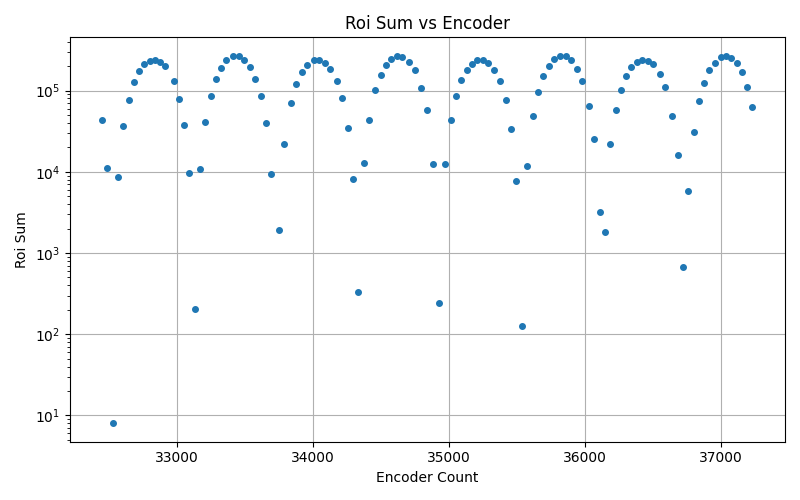
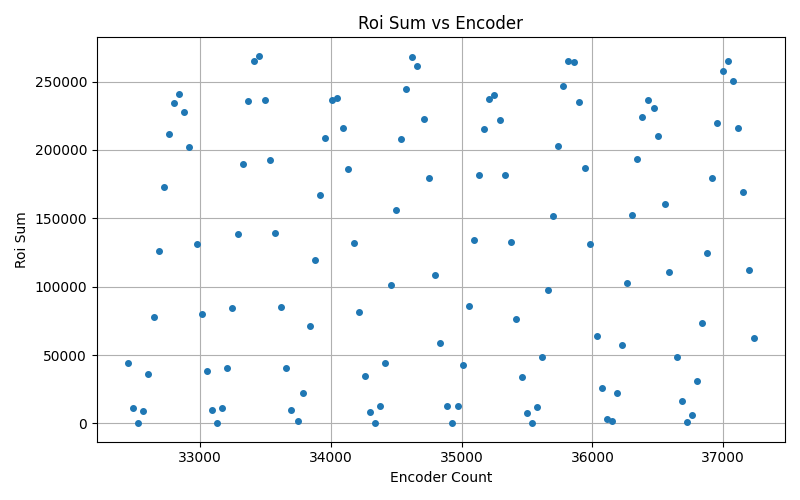
Remove log scaling from plots

diff --git a/readout/create-plot.py b/readout/create-plot.py
@@ -12,7 +12,8 @@ import matplotlib.pyplot as plt
 # === CONFIG ===
 counts_per_wheel_rev_guess = 2382
 timezone_offset_hours = 4
-plot_types = ["one_pixel", "all_pixel_sum", "all_pixel_avg", "ROI_sum", "ROI_average", "ROI_median"]
+plot_types = ["one_pixel", "all_pixel_sum", "all_pixel_avg",
+              "ROI_sum", "ROI_average", "ROI_median"]
 
 # Background ROI position/size (adjust as needed)
 background_yx = (50, 50)   # top-left corner for background
@@ -46,14 +47,12 @@ def find_closest_encoder_angle(fits_ts, encoder_ts_array, encoder_counts):
     return encoder_counts[closest_idx]
 
 
-def save_plot(x, y, xlabel, ylabel, title, log_y, outpath):
+def save_plot(x, y, xlabel, ylabel, title, outpath):
     plt.figure(figsize=(8, 5))
     plt.plot(x, y, 'o', markersize=4)
     plt.xlabel(xlabel)
     plt.ylabel(ylabel)
     plt.title(title)
-    if log_y:
-        plt.yscale("log")
     plt.grid(True)
     plt.tight_layout()
     plt.savefig(outpath)
@@ -93,10 +92,14 @@ def main():
         fits_time_str = hdr.get("DATE-OBS")
         if not fits_time_str:
             continue
-        fits_dt = datetime.fromisoformat(fits_time_str.replace("Z", "+00:00")) + timedelta(hours=timezone_offset_hours)
+        fits_dt = datetime.fromisoformat(
+            fits_time_str.replace("Z", "+00:00")
+        ) + timedelta(hours=timezone_offset_hours)
         fits_ts = fits_dt.replace(tzinfo=timezone.utc).timestamp()
 
-        encoder_val = find_closest_encoder_angle(fits_ts, encoder_ts_array, encoder_counts)
+        encoder_val = find_closest_encoder_angle(
+            fits_ts, encoder_ts_array, encoder_counts
+        )
         if encoder_val is None:
             continue
 
@@ -126,14 +129,20 @@ def main():
         vals["ROI_sum"].append(np.sum(roi) - background_sum)
         vals["ROI_average"].append(np.mean(roi) - background_mean)
         vals["ROI_median"].append(np.median(roi) - background_mean)
-        
+
     encoders = np.array(encoders)
     angles = np.array(angles)
 
     for k in plot_types:
         y = np.array(vals[k])
-        save_plot(encoders, y, "Encoder Count", k.replace("_", " ").title(), f"{k.replace('_', ' ').title()} vs Encoder", log_y=("sum" in k), outpath=os.path.join(plot_base_dir, k, f"{k}_vs_encoder.png"))
-        save_plot(angles, y, "Plate Angle (rad)", k.replace("_", " ").title(), f"{k.replace('_', ' ').title()} vs Plate Angle", log_y=("sum" in k), outpath=os.path.join(plot_base_dir, k, f"{k}_vs_angle.png"))
+        save_plot(encoders, y, "Encoder Count",
+                  k.replace("_", " ").title(),
+                  f"{k.replace('_', ' ').title()} vs Encoder",
+                  outpath=os.path.join(plot_base_dir, k, f"{k}_vs_encoder.png"))
+        save_plot(angles, y, "Plate Angle (rad)",
+                  k.replace("_", " ").title(),
+                  f"{k.replace('_', ' ').title()} vs Plate Angle",
+                  outpath=os.path.join(plot_base_dir, k, f"{k}_vs_angle.png"))
 
     print("All plots saved to:", plot_base_dir)
 
